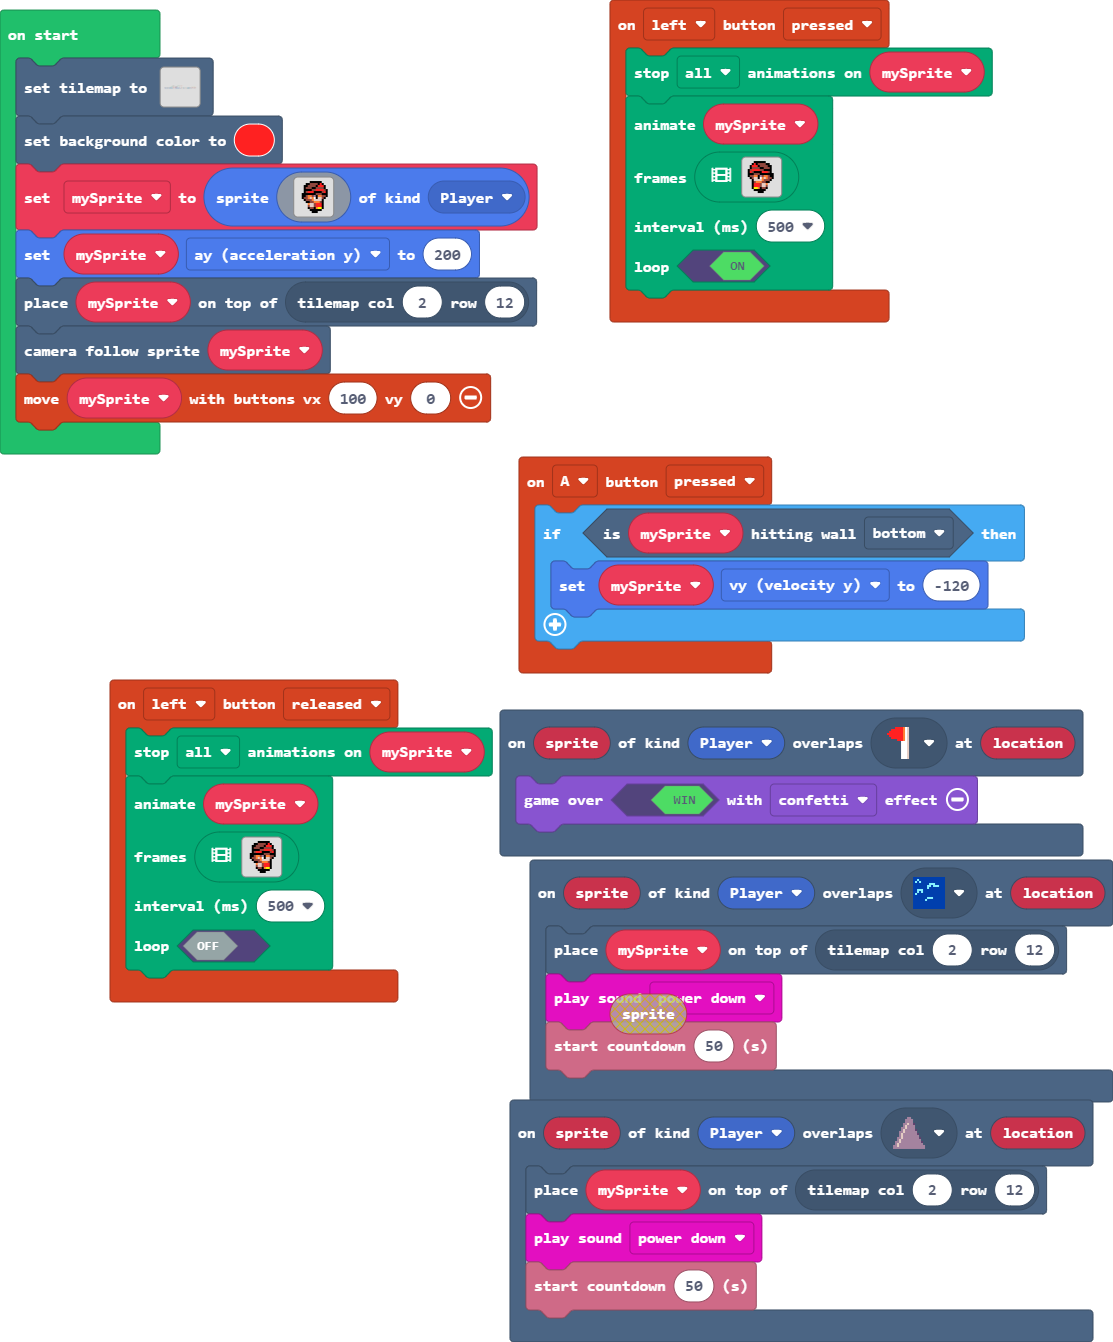
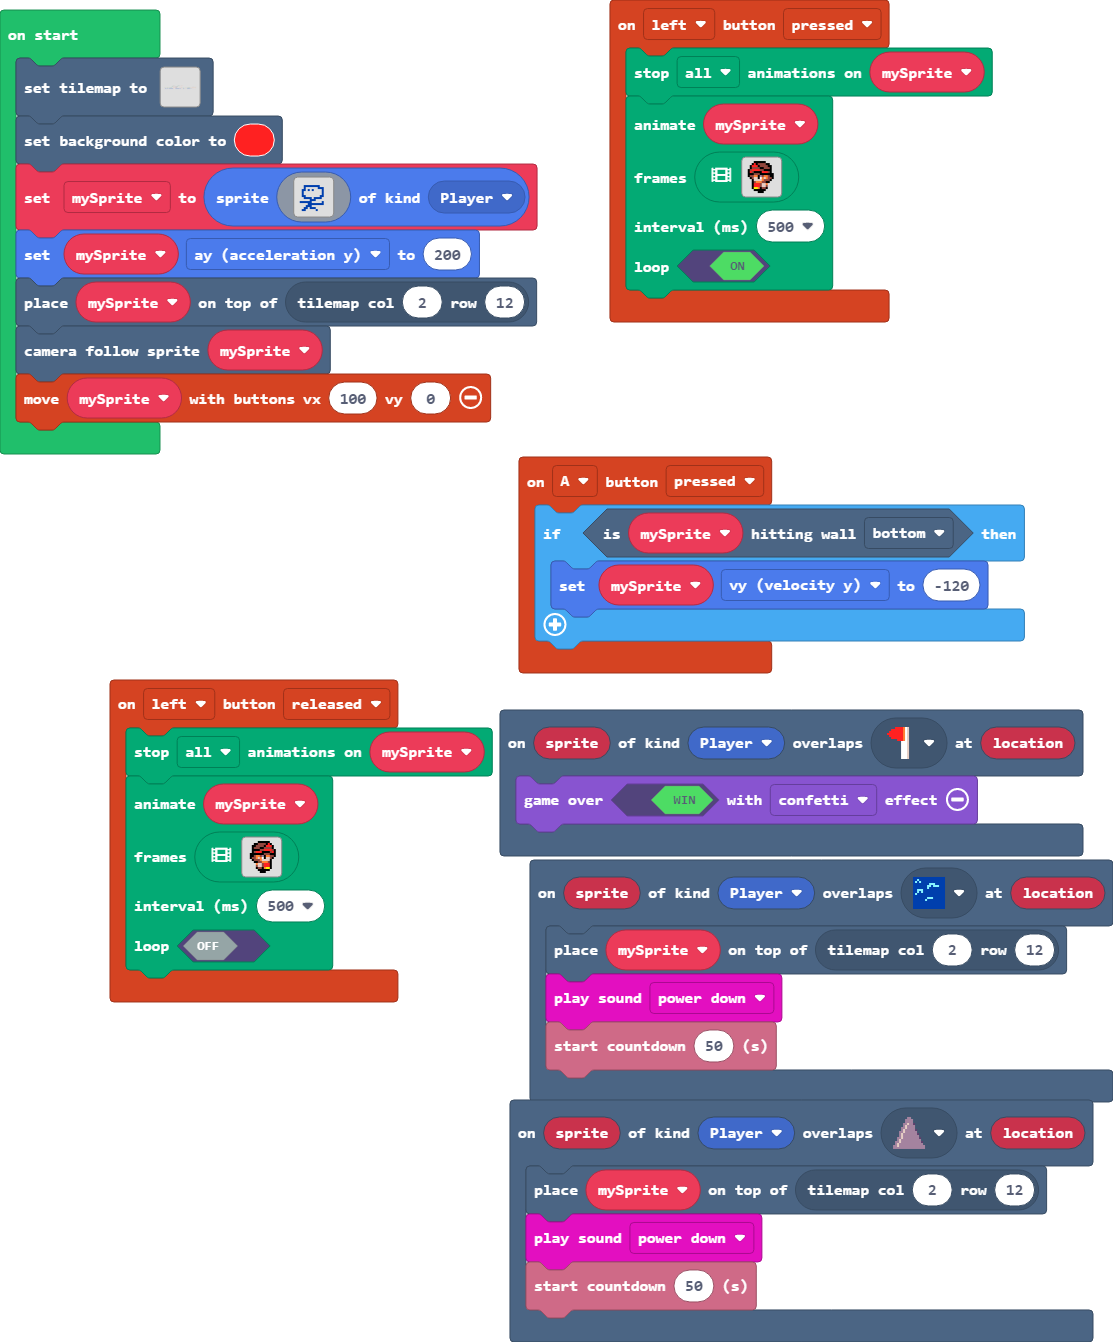
New stickman character sprite

Changed region(s): [[0.5499, 0.7332, 0.6415, 0.7943], [0.2749, 0.1222, 0.3055, 0.1833]]

diff --git a/main.ts b/main.ts
@@ -71,24 +71,7 @@ controller.left.onEvent(ControllerButtonEvent.Released, function () {
 let mySprite: Sprite = null
 tiles.setTilemap(tilemap`level1`)
 scene.setBackgroundColor(2)
-mySprite = sprites.create(img`
-    . . . . . . f f f f f f . . . . 
-    . . . . f f e e e e f 2 f . . . 
-    . . . f f e e e e f 2 2 2 f . . 
-    . . . f e e e f f e e e e f . . 
-    . . . f f f f e e 2 2 2 2 e f . 
-    . . . f e 2 2 2 f f f f e 2 f . 
-    . . f f f f f f f e e e f f f . 
-    . . f f e 4 4 e b f 4 4 e e f . 
-    . . f e e 4 d 4 1 f d d e f . . 
-    . . . f e e e 4 d d d d f . . . 
-    . . . . f f e e 4 4 4 e f . . . 
-    . . . . . 4 d d e 2 2 2 f . . . 
-    . . . . . e d d e 2 2 2 f . . . 
-    . . . . . f e e f 4 5 5 f . . . 
-    . . . . . . f f f f f f . . . . 
-    . . . . . . . f f f . . . . . . 
-    `, SpriteKind.Player)
+mySprite = sprites.create(assets.image`myImage`, SpriteKind.Player)
 mySprite.ay = 200
 tiles.placeOnTile(mySprite, tiles.getTileLocation(2, 12))
 scene.cameraFollowSprite(mySprite)

diff --git a/images.g.ts b/images.g.ts
@@ -3,7 +3,25 @@ namespace myImages {
 
     helpers._registerFactory("image", function(name: string) {
         switch(helpers.stringTrim(name)) {
-
+            case "image1":
+            case "myImage":return img`
+. . . . . . . . . . . . . . . . 
+. . . . . . . . . . . . . . . . 
+. . . 8 8 8 8 8 8 8 8 . . . . . 
+. . . 8 . . . . . . 8 8 8 . . . 
+. . 8 8 . 8 . 8 . . . . 8 . . . 
+. . 8 . . . . . . . . . 8 . . . 
+. . 8 . . . . . . . . . 8 . . . 
+. . 8 8 . . . . . . . 8 8 . . . 
+. . . 8 8 8 8 . 8 8 8 8 . . . . 
+. . . . . . 8 8 8 . . . . . . . 
+. 8 8 8 8 8 8 . . . . . 8 . . . 
+. . . . . 8 8 8 8 8 8 8 8 . . . 
+. . . . 8 8 8 . . . . . . . . . 
+. . . 8 8 . 8 8 8 . . . . . . . 
+. . 8 8 . . . . . 8 . . . . . . 
+. . . . . . . . . . . . . . . . 
+`;
         }
         return null;
     })
